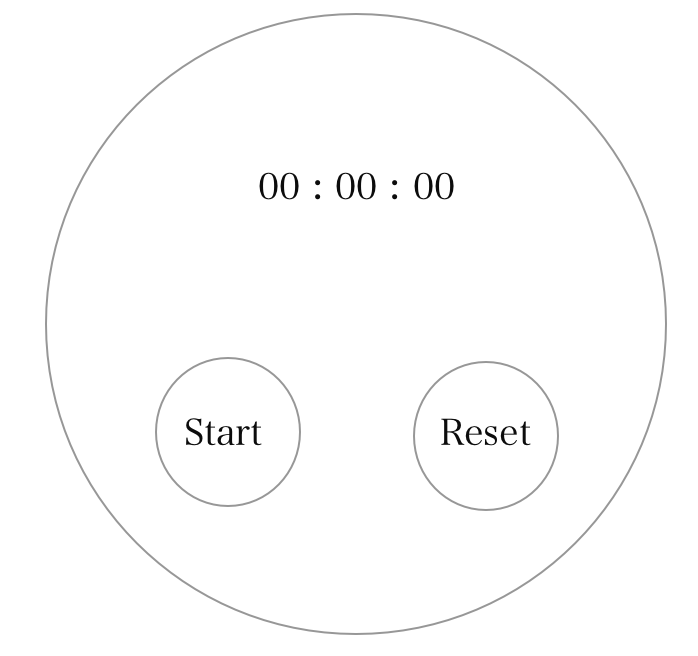
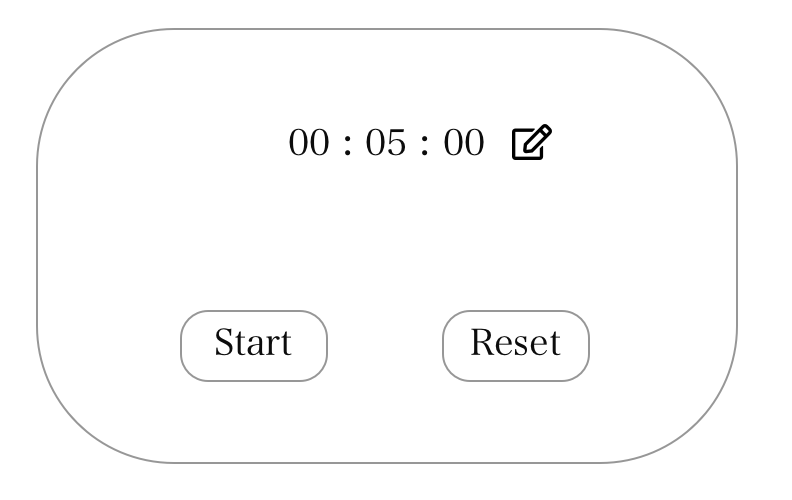
code refactoring

diff --git a/timer/client/src/Components/Timer.js b/timer/client/src/Components/Timer.js
@@ -1,10 +1,6 @@
 import React, { Component } from "react";
 import { timeFormatter, toSeconds } from "../helper";
 
-let h;
-let m;
-let s;
-
 class Timer extends Component {
   constructor(props) {
     super(props);
@@ -22,21 +18,25 @@ class Timer extends Component {
     }
   };
 
-  handleFormSubmit = e => {
-    e.preventDefault();
-    if (!h.value.trim() || !m.value.trim() || !s.value.trim()) {
-      return;
-    }
-    const seconds = toSeconds(h.value, m.value, s.value);
-    this.props.onSetTimer(seconds);
-    h.value = "";
-    m.value = "";
-    s.value = "";
+  editModeOff = () => {
+    this.h.value = "";
+    this.m.value = "";
+    this.s.value = "";
     this.setState({ edit_mode: false });
     var handles = document.getElementsByName("handles");
     for (var i = 0; i < handles.length; i++) {
       handles[i].removeAttribute("disabled");
     }
+  };
+
+  handleFormSubmit = e => {
+    e.preventDefault();
+    if (!this.h.value.trim() || !this.m.value.trim() || !this.s.value.trim()) {
+      return;
+    }
+    const seconds = toSeconds(this.h.value, this.m.value, this.s.value);
+    this.props.onSetTimer(seconds);
+    this.editModeOff();
   };
 
   render() {
@@ -54,37 +54,34 @@ class Timer extends Component {
           <form style={styles.editForm} onSubmit={this.handleFormSubmit}>
             <input
               ref={node => {
-                h = node;
+                this.h = node;
               }}
-              id="h"
               size="3"
               type="text"
               autoComplete="off"
               defaultValue="0"
             />
-            <label htmlFor="h">h</label>
+            <label>h</label>
             <input
               ref={node => {
-                m = node;
+                this.m = node;
               }}
-              id="m"
               size="3"
               type="text"
               autoComplete="off"
               defaultValue="0"
             />
-            <label htmlFor="m">m</label>
+            <label>m</label>
             <input
               ref={node => {
-                s = node;
+                this.s = node;
               }}
-              id="s"
               size="3"
               type="text"
               autoComplete="off"
               defaultValue="0"
             />
-            <label htmlFor="s">s</label>
+            <label>s</label>
             <input type="submit" style={{ display: "none" }} />
           </form>
         ) : (

diff --git a/timer/README.md b/timer/README.md
@@ -2,8 +2,9 @@ A timer app.
 
 ## Requirements
 
-* Able to time whatever duration up to 23h 59m 59s.
-* Start, Stop, and Reset button.
+* You can custom set the time. Default is 5 minutes.
+* When you press start, button changes to stop.
+* While setting time, start and reset buttons are disabled.
 
 ## Mock
 
